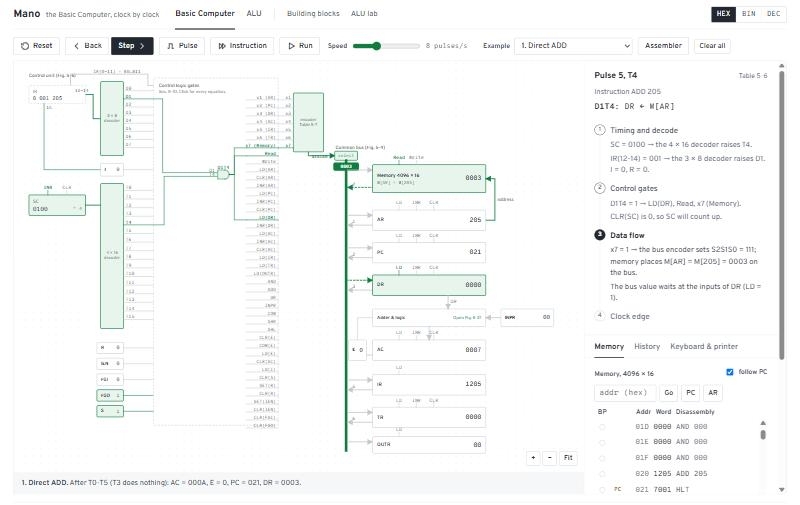
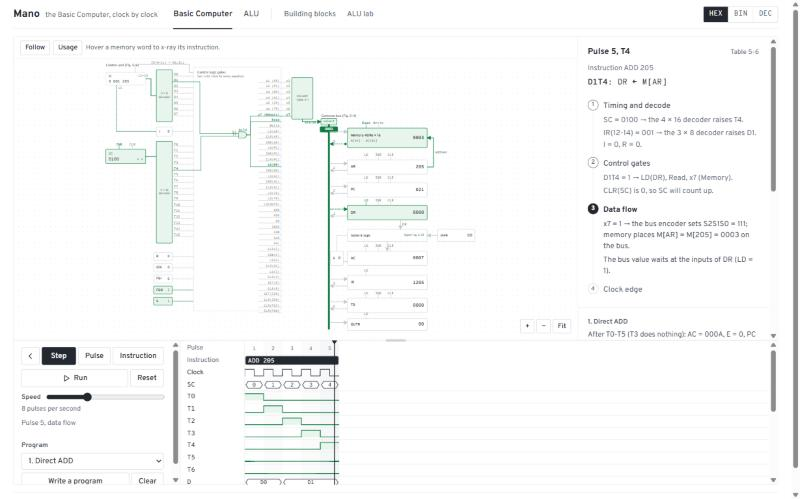
README and screenshots for the workbench, timing diagram, follow, x-ray

diff --git a/README.md b/README.md
@@ -10,26 +10,40 @@ timing signals T0…T15, the control equations of Sec. 5-10, and figure and tabl
 Reading the drawings: a **green** wire carries 1 or an active control signal (the convention of
 logic simulators); a **yellow highlight** marks a value that changed on the clock edge.
 
-![The Basic Computer circuit during the data-flow sub-step of D1T4 (ADD 205)](docs/screenshots/basic-computer.jpg)
+![The Basic Computer workbench: circuit, inspector, and the timing diagram of ADD 205](docs/screenshots/basic-computer.jpg)
 
 ## Basic Computer (Ch. 5–6)
 
-One zoomable circuit: the control unit of Fig. 5-6 (IR, the 3 × 8 and 4 × 16 decoders, SC,
-flip-flops and the control logic gates), the bus select encoder of Table 5-7, the common bus
-and the registers of Fig. 5-4, the memory and the adder-and-logic circuit of Fig. 5-21.
+The page is a workbench, laid out like a logic analyzer:
+
+- **The circuit**, zoomable: the control unit of Fig. 5-6 (IR, the 3 × 8 and 4 × 16 decoders, SC,
+  flip-flops and the control logic gates), the bus select encoder of Table 5-7, the common bus and
+  the registers of Fig. 5-4, the memory and the adder-and-logic circuit of Fig. 5-21.
+- **The inspector**: the pulse being shown with its Table 5-6 line and a plain-language
+  explanation of each sub-step; registers, flip-flops and memory, all editable; the keyboard and
+  printer.
+- **The dock**: the clock controls and a **timing diagram** in the spirit of Fig. 5-7, with an
+  instruction band, the clock, T0…T6, SC, the bus value and any control signal you add. Click or
+  drag anywhere on it to move the machine to that moment, backwards or forwards.
 
 Every clock pulse is shown in **four sub-steps**, in the order the hardware settles:
 
 1. **Timing and decode**: SC drives the 4 × 16 decoder (T0…T15); IR(12-14) drives the 3 × 8 decoder (D0…D7).
 2. **Control gates**: the AND gates whose term is 1 (e.g. `D1T4`) light up, wired from the T and D lines to the control outputs they raise (`LD(DR)`, `Read`, `x7`).
-3. **Data flow**: the encoder sets S2S1S0, the source drives the bus, and the value travels to the inputs of the registers that will load it.
+3. **Data flow**: the encoder sets S2S1S0, the source drives the bus, and a pulse travels to the registers that will load it.
 4. **Clock edge**: every enabled register and flip-flop stores its new value at the same instant.
 
-A side panel explains each sub-step in plain language and shows the Table 5-6 line. Click the
-control logic for every equation of Sec. 5-10 with the active terms lit, or the adder-and-logic
-block for one stage of Fig. 5-21. You can also step back through the whole history, run at
-adjustable speed, edit memory, set breakpoints, type on the keyboard, read the printer, and write
-and assemble programs (Ch. 6).
+**Follow** turns the canvas into a camera that glides to wherever each sub-step happens, with a
+caption, so you ride along with the signal.
+
+![Follow: the camera on the D1T4 gate, with T4 and D1 feeding it](docs/screenshots/follow-camera.jpg)
+
+**X-ray**: hover a memory word and every part of the circuit its instruction will use, over all
+of its pulses, is outlined. **Usage**: shade every part by how often the program used it.
+
+Clicking the control logic lists every equation of Sec. 5-10 with the active terms lit; clicking
+the adder-and-logic block opens one stage of Fig. 5-21. Breakpoints, run speed, and a two-pass
+assembler (Ch. 6) for your own programs are there too.
 
 ## ALU (Fig. 4-13)
 
@@ -37,10 +51,12 @@ All four stages of the arithmetic logic shift unit, each with its Y multiplexer 
 its logic gates and multiplexer, and its output multiplexer; shared select lines; the carry chain.
 Choose A, B, S3S2S1S0 and Cin (or click a row of Table 4-8) and step through the propagation:
 Y multiplexers → full adder 0, 1, 2, 3 as the carry ripples → logic stage → output multiplexers → C, S, Z, V.
-Wires show their value once it has settled. Both encodings of the arithmetic rows are available
-(Table 4-8 as printed, or the Fig. 4-9 wiring of Table 4-4).
+Wires show their value once it has settled; the dock shows a propagation timeline of which bits
+of Y, the carries, D, E, F and the status bits have settled after each step, and Follow rides
+the carry from stage to stage. Both encodings of the arithmetic rows are available (Table 4-8 as
+printed, or the Fig. 4-9 wiring of Table 4-4).
 
-![The ALU circuit while the carry ripples into stage 2](docs/screenshots/alu-circuit.jpg)
+![The ALU while the carry ripples into stage 3](docs/screenshots/alu-circuit.jpg)
 
 ## More
 
@@ -88,11 +104,15 @@ src/core/            pure TypeScript, no React or DOM: fully unit-tested
   basic/             control unit (control.ts), one clock edge (pulse.ts),
                      controlLogic.ts: the control gate equations of Sec. 5-10,
                      microsteps.ts: a pulse split into its four sub-steps,
-                     Fig. 5-21 circuit, disassembler, explanations, Simulator
+                     activity.ts: circuit parts each pulse uses, x-ray, usage,
+                     waveforms.ts: timing-diagram lanes,
+                     Fig. 5-21 circuit, disassembler, explanations,
+                     Simulator (undo, redo, seek, timeline)
   assembler/         two-pass assembler (Ch. 6)
   programs/          example programs 1-11
 src/ui/
-  circuit/           SVG circuit toolkit: pan/zoom canvas, wires, gates, MUX, blocks, pins
+  circuit/           SVG circuit toolkit: pan/zoom canvas with follow camera, wires, gates, MUX
+  timeline/          timing diagram
   rooms/computer/    Basic Computer circuit page
   rooms/alu/         ALU circuit page and ALU lab sections
   rooms/blocks/      building blocks
